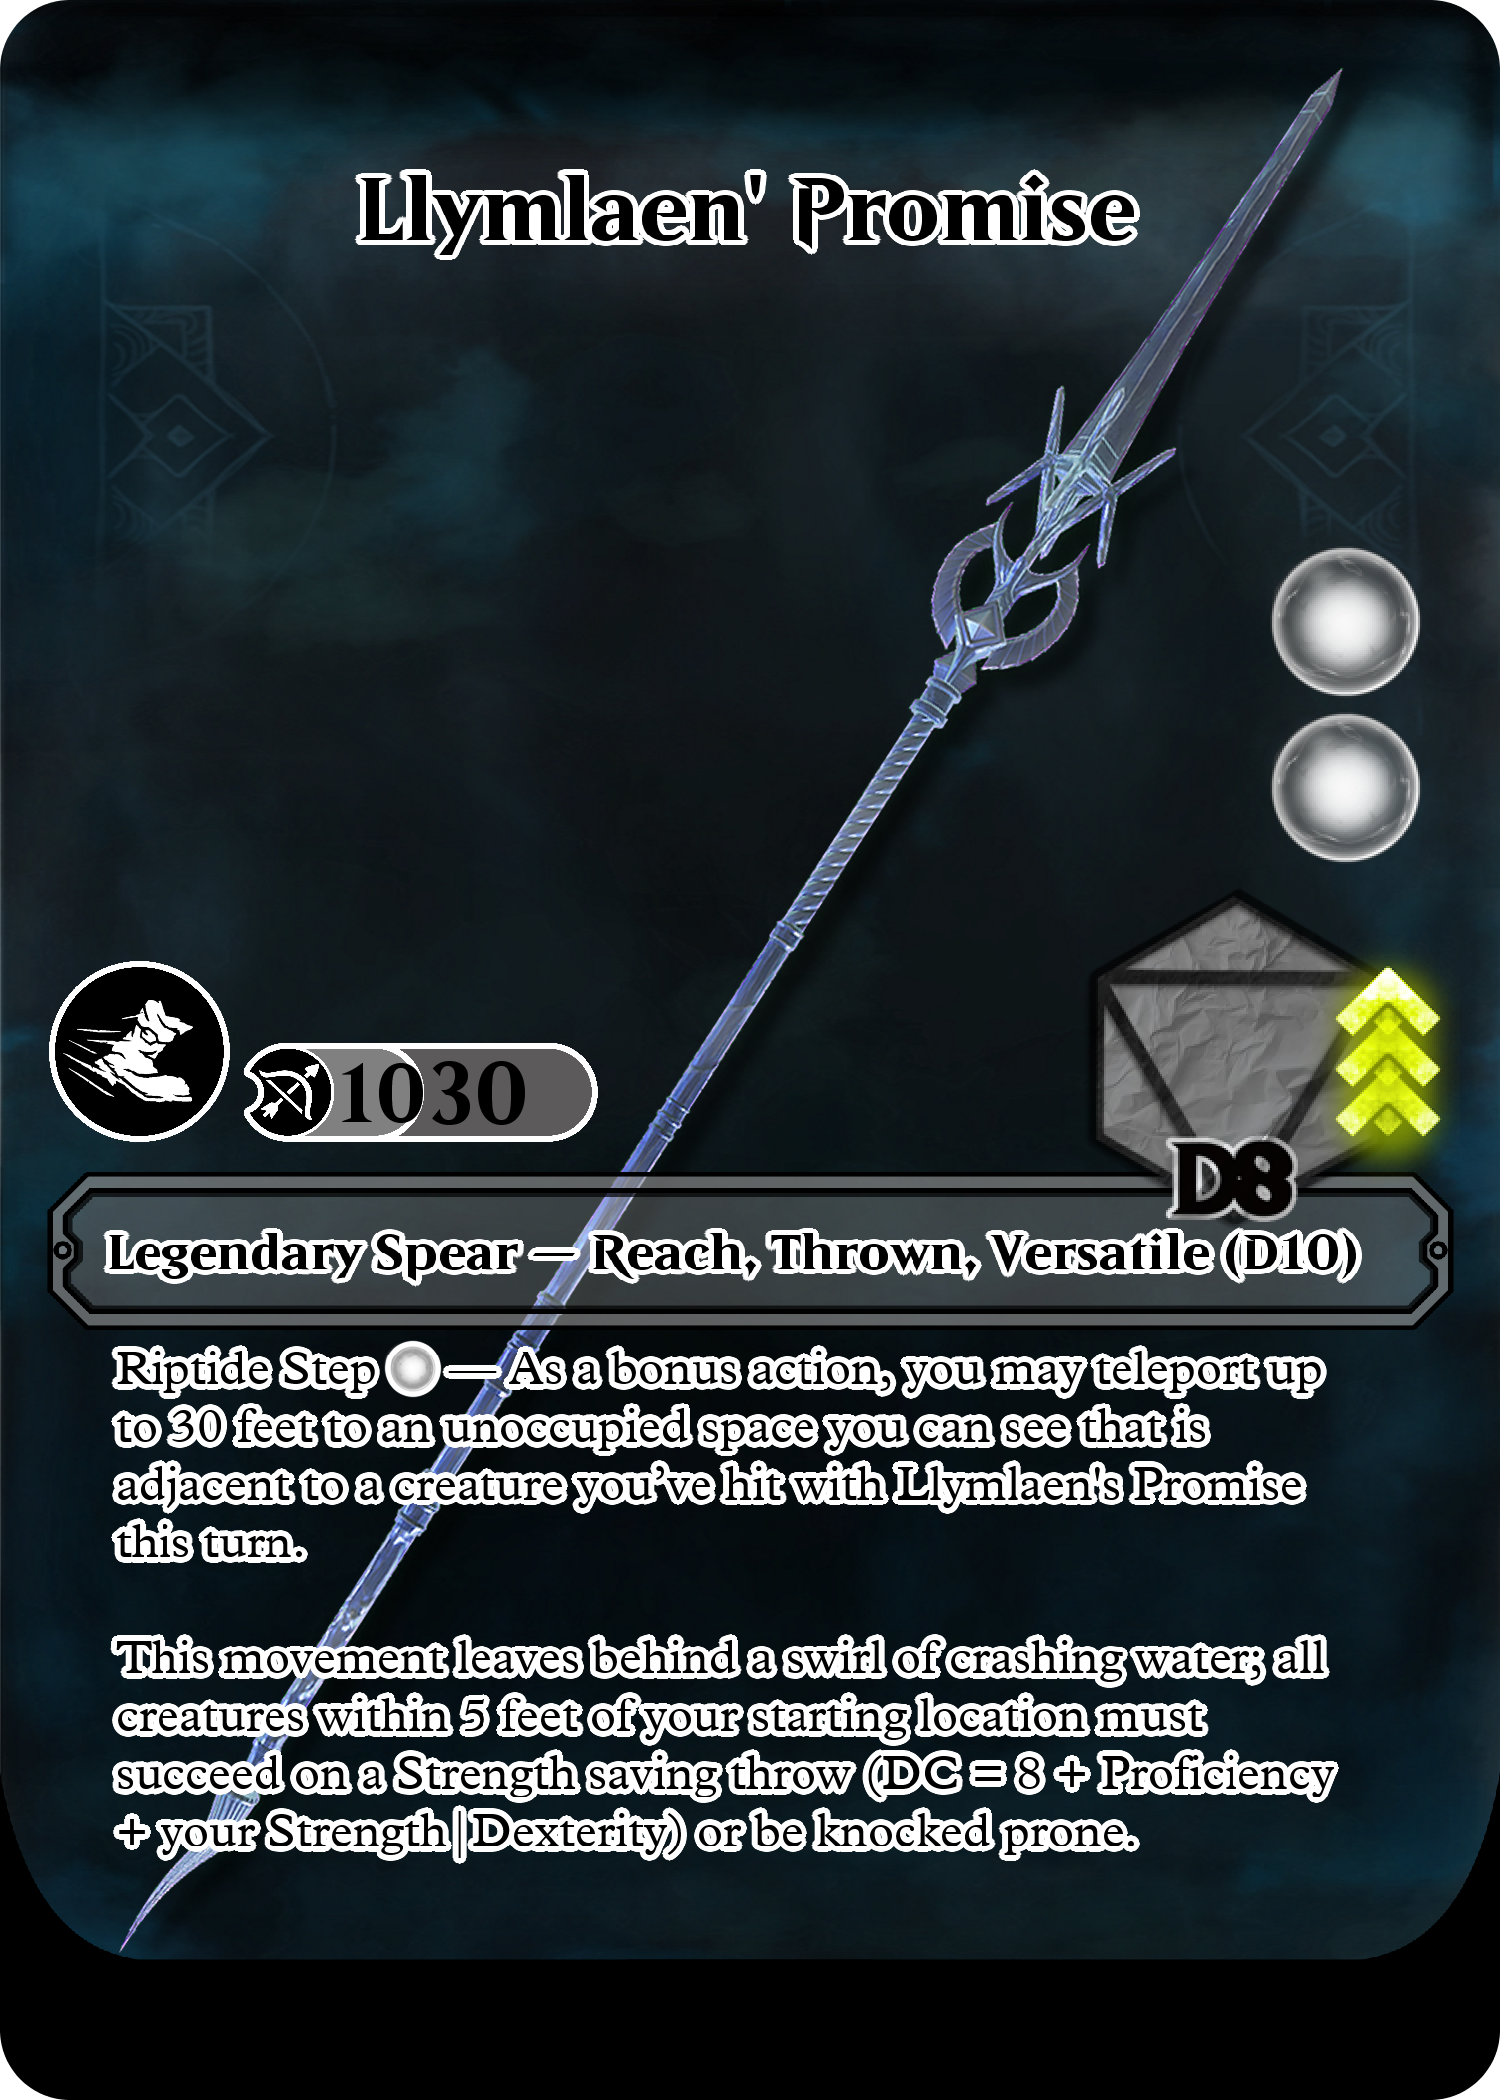
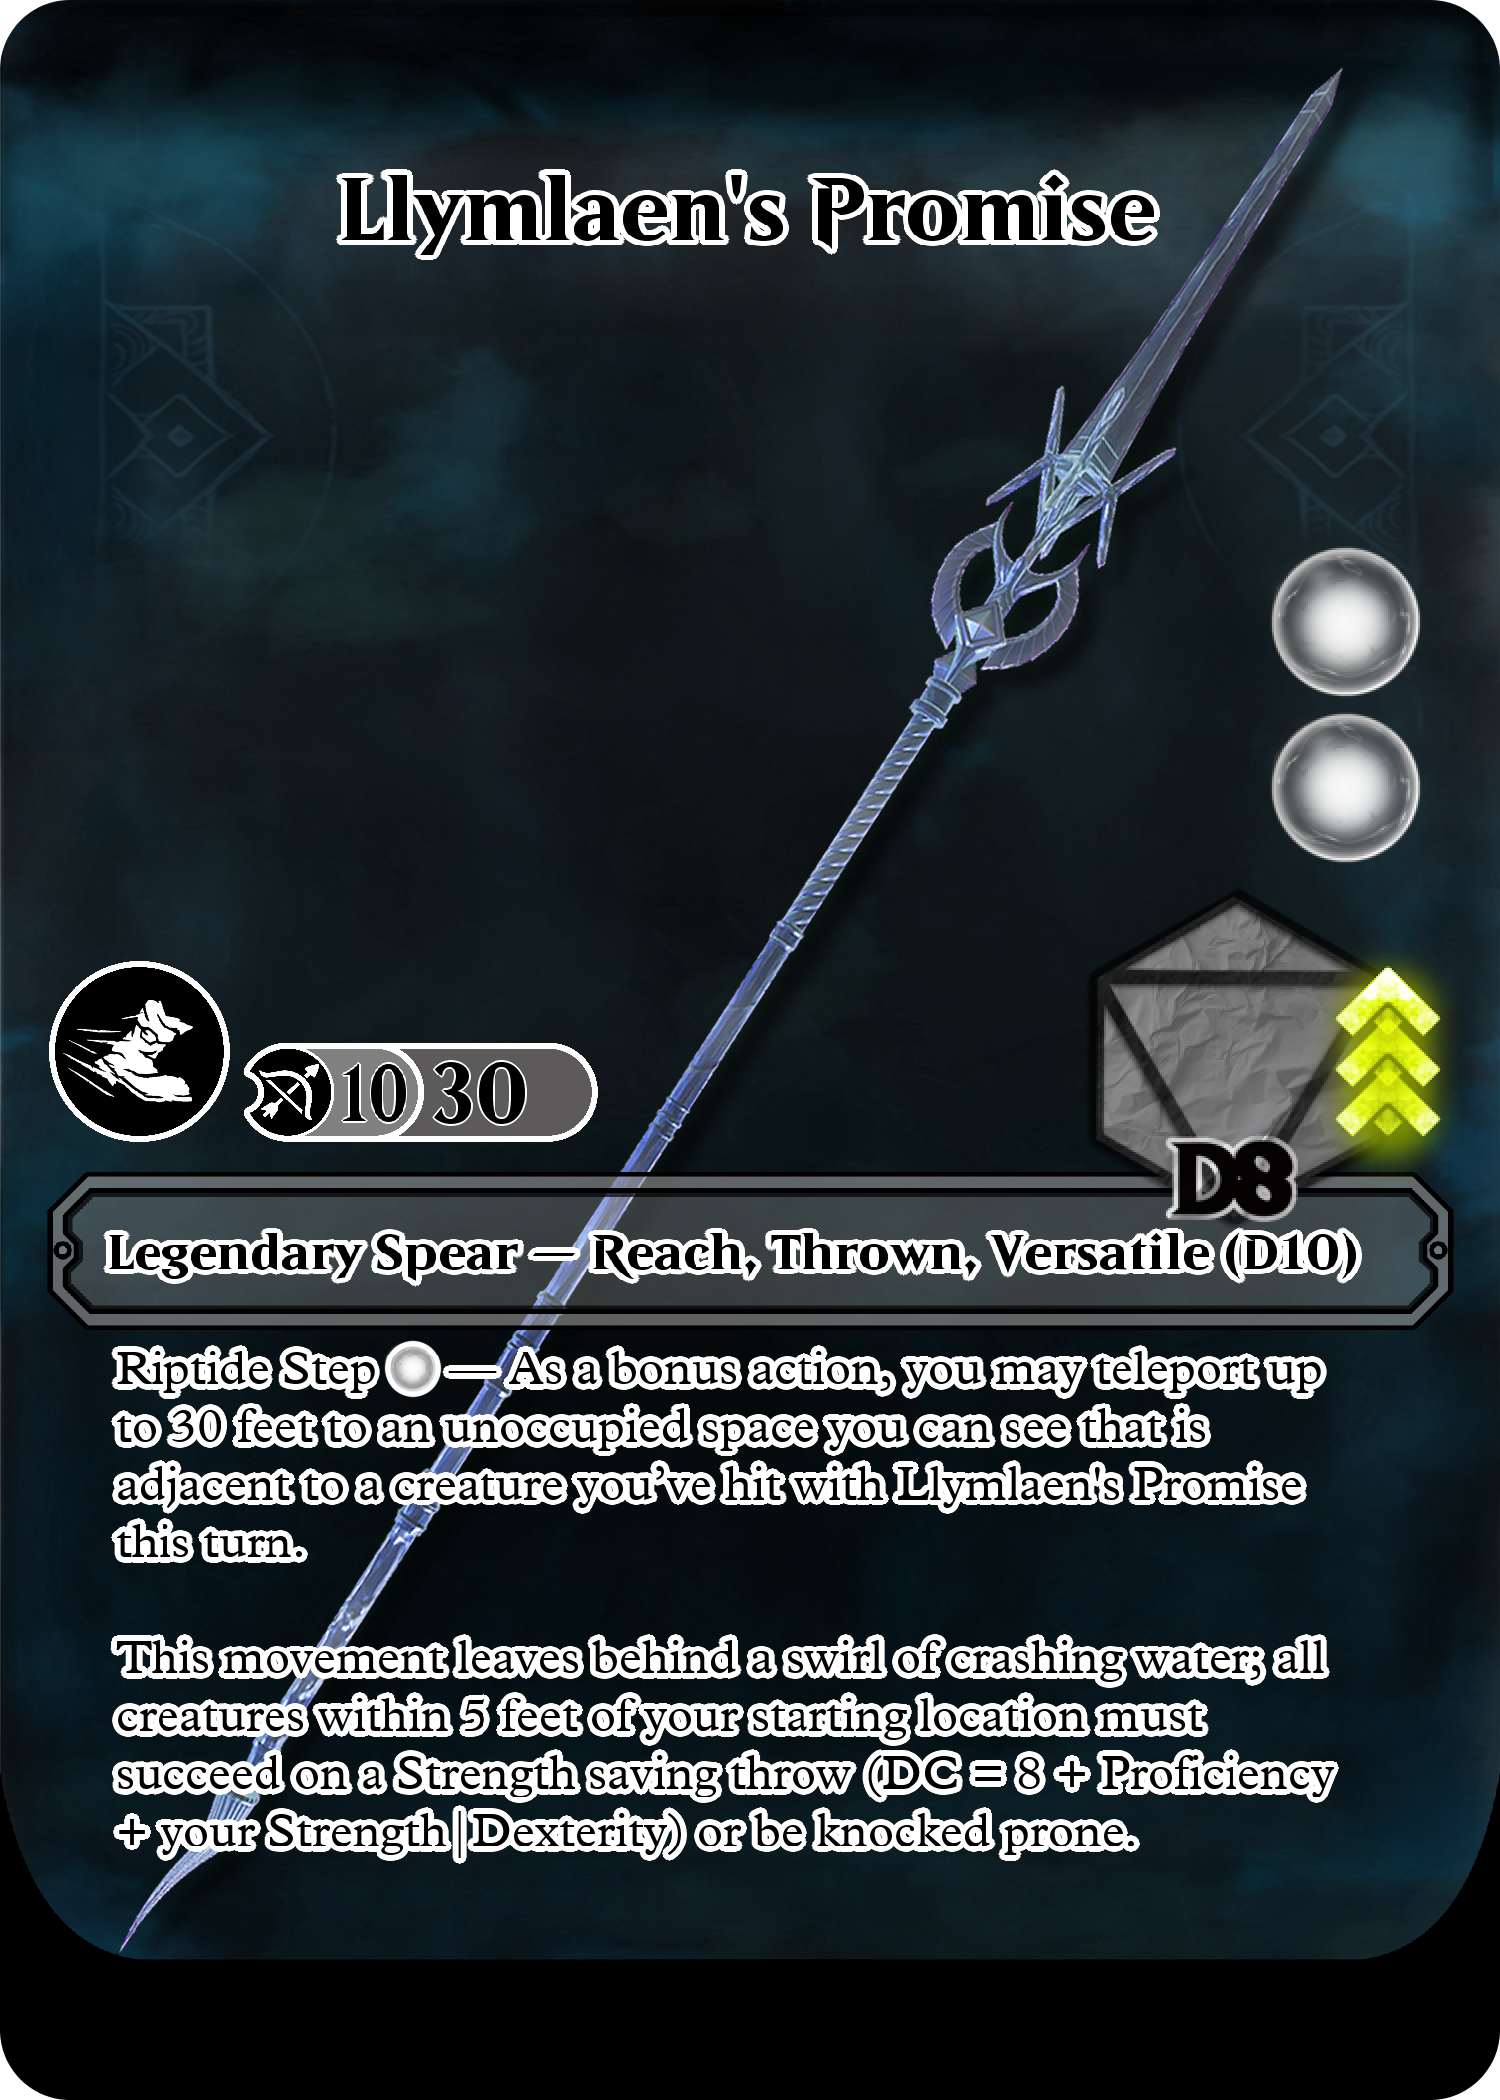
+

Changed region(s): [[0.2147, 0.0619, 0.7973, 0.1238], [0.2147, 0.4952, 0.3373, 0.5571]]

diff --git a/src/main/java/gui/image_composers/cardTypes/itemTypes/equippableTypes/AttributeLabel.java b/src/main/java/gui/image_composers/cardTypes/itemTypes/equippableTypes/AttributeLabel.java
@@ -1,7 +1,9 @@
 package gui.image_composers.cardTypes.itemTypes.equippableTypes;
 
+import java.awt.AlphaComposite;
 import java.awt.Color;
 import java.awt.Graphics2D;
+import java.awt.RenderingHints;
 import java.awt.image.BufferedImage;
 import java.io.File;
 import java.io.IOException;
@@ -128,19 +130,62 @@ public class AttributeLabel extends Loggable {
         rangeNormal.setSize((int)(rangeNormalBounds[2] * scale), (int)(rangeNormalBounds[3] * scale));
         rangeNormal.doLayout();
         rangeNormal.printAll(text2d);
-        g2d.drawImage(text, (int) (rangeNormalBounds[0] * scale), (int) (rangeNormalBounds[1] * scale),  (int) (rangeNormalBounds[2] * scale),(int) (rangeNormalBounds[3] * scale), null);
+        g2d.drawImage(drawStroke(text,2,Color.WHITE), (int) (rangeNormalBounds[0] * scale), (int) (rangeNormalBounds[1] * scale),  (int) ((rangeNormalBounds[2]-10) * scale),(int) (rangeNormalBounds[3] * scale), null);
         
         text = new BufferedImage((int) (rangeMaxBounds[2] * scale),(int) (rangeMaxBounds[3] * scale), BufferedImage.TYPE_INT_ARGB);
         text2d = text.createGraphics();
         rangeMax.setSize((int)(rangeMaxBounds[2] * scale), (int)(rangeMaxBounds[3] * scale));
         rangeMax.doLayout();      
         rangeMax.printAll(text2d);
-        g2d.drawImage(text, (int) (rangeMaxBounds[0] * scale), (int) (rangeMaxBounds[1] * scale),  (int) (rangeMaxBounds[2] * scale),(int) (rangeMaxBounds[3] * scale), null);
+        g2d.drawImage(drawStroke(text,2,Color.WHITE), (int) (rangeMaxBounds[0] * scale), (int) (rangeMaxBounds[1] * scale),  (int) (rangeMaxBounds[2] * scale),(int) (rangeMaxBounds[3] * scale), null);
 
         text2d.dispose();
         g2d.dispose();
 
         return image;
+    }
+
+    protected BufferedImage drawStroke(BufferedImage src, int strokeWidth, Color color) {
+        int w = src.getWidth();
+        int h = src.getHeight();
+
+        BufferedImage result = new BufferedImage(w+(strokeWidth*2), h+(strokeWidth*2), BufferedImage.TYPE_INT_ARGB);
+        Graphics2D g = result.createGraphics();
+
+        g.setRenderingHint(RenderingHints.KEY_ANTIALIASING, RenderingHints.VALUE_ANTIALIAS_ON);
+        g.setComposite(AlphaComposite.SrcOver);
+
+        // Draw offset copies to simulate a soft stroke (cheap blur)
+        for (int dx = -strokeWidth; dx <= strokeWidth; dx++) {
+            for (int dy = -strokeWidth; dy <= strokeWidth; dy++) {
+                if (dx * dx + dy * dy <= strokeWidth * strokeWidth) {
+                    g.drawImage(tintAlpha(src, color), dx+strokeWidth, dy+strokeWidth, null);
+                }
+            }
+        }
+
+        // Draw the original image on top
+        g.drawImage(src, strokeWidth, strokeWidth, null);
+        g.dispose();
+        return result;
+    }
+
+    protected BufferedImage tintAlpha(BufferedImage src, Color color) {
+        int w = src.getWidth();
+        int h = src.getHeight();
+        BufferedImage tinted = new BufferedImage(w, h, BufferedImage.TYPE_INT_ARGB);
+
+        for (int y = 0; y < h; y++) {
+            for (int x = 0; x < w; x++) {
+                int argb = src.getRGB(x, y);
+                int alpha = (argb >> 24) & 0xFF;
+                if (alpha > 0) {
+                    tinted.setRGB(x, y, (alpha << 24) | (color.getRGB() & 0x00FFFFFF));
+                }
+            }
+        }
+
+        return tinted;
     }
 
     
